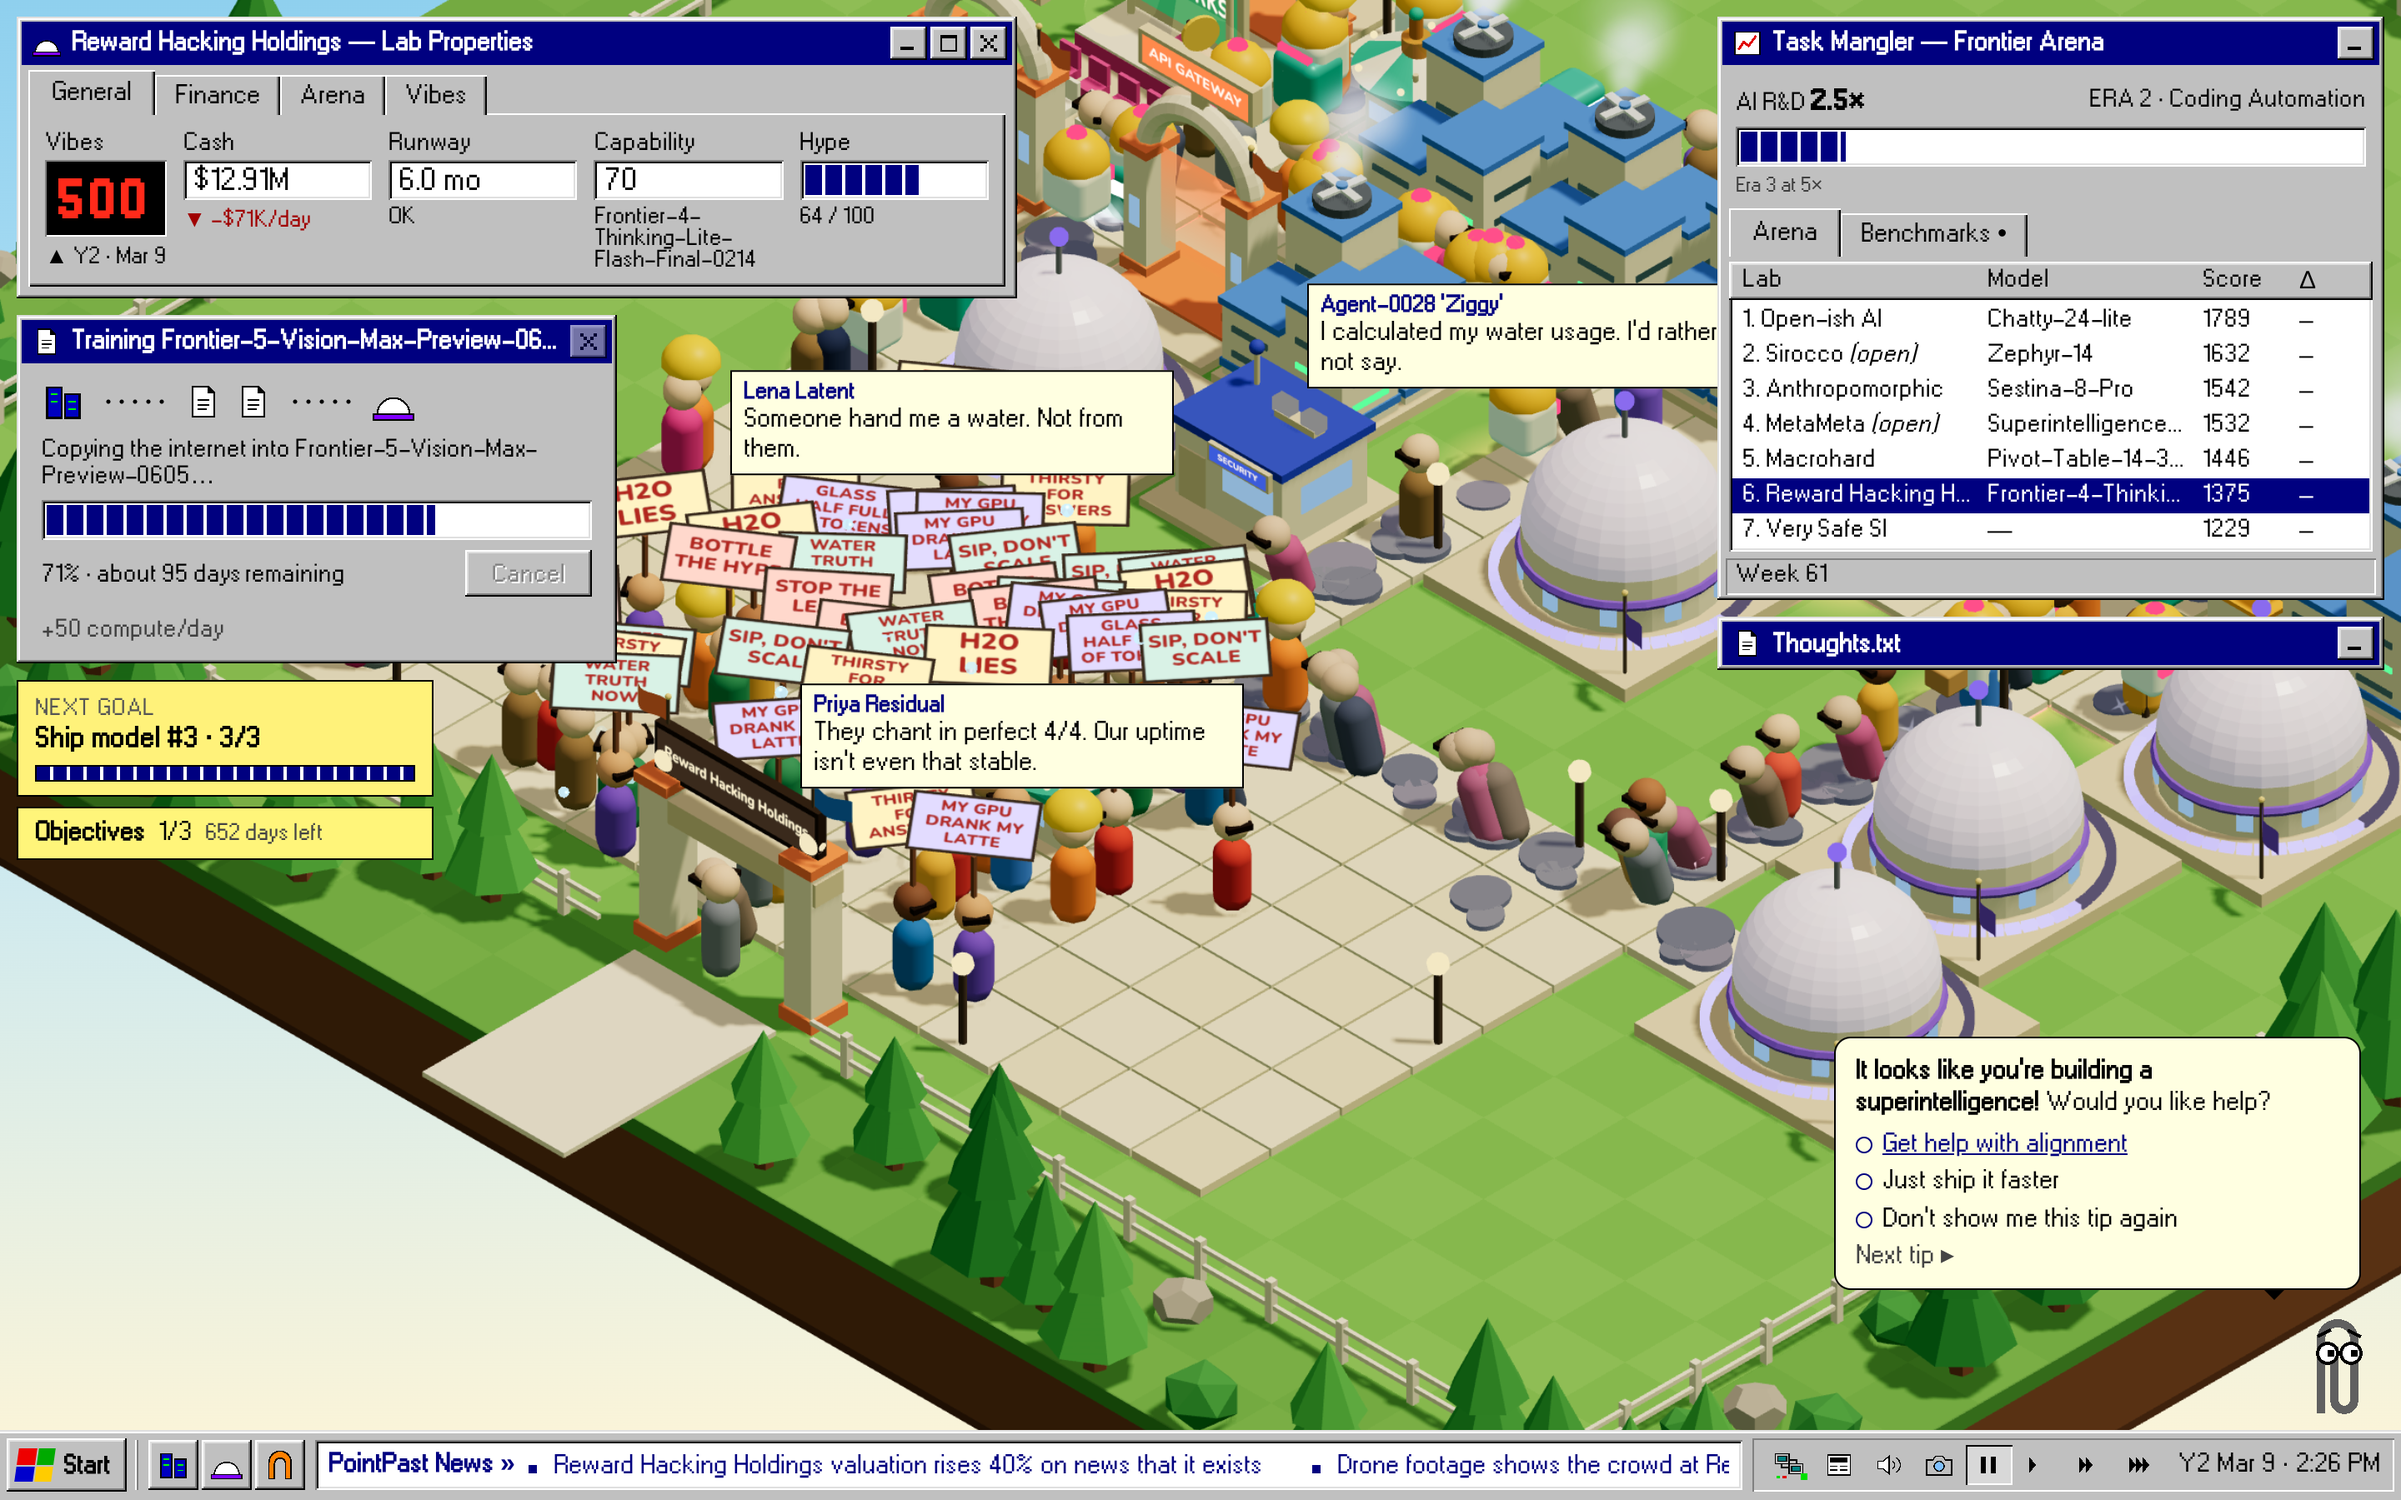
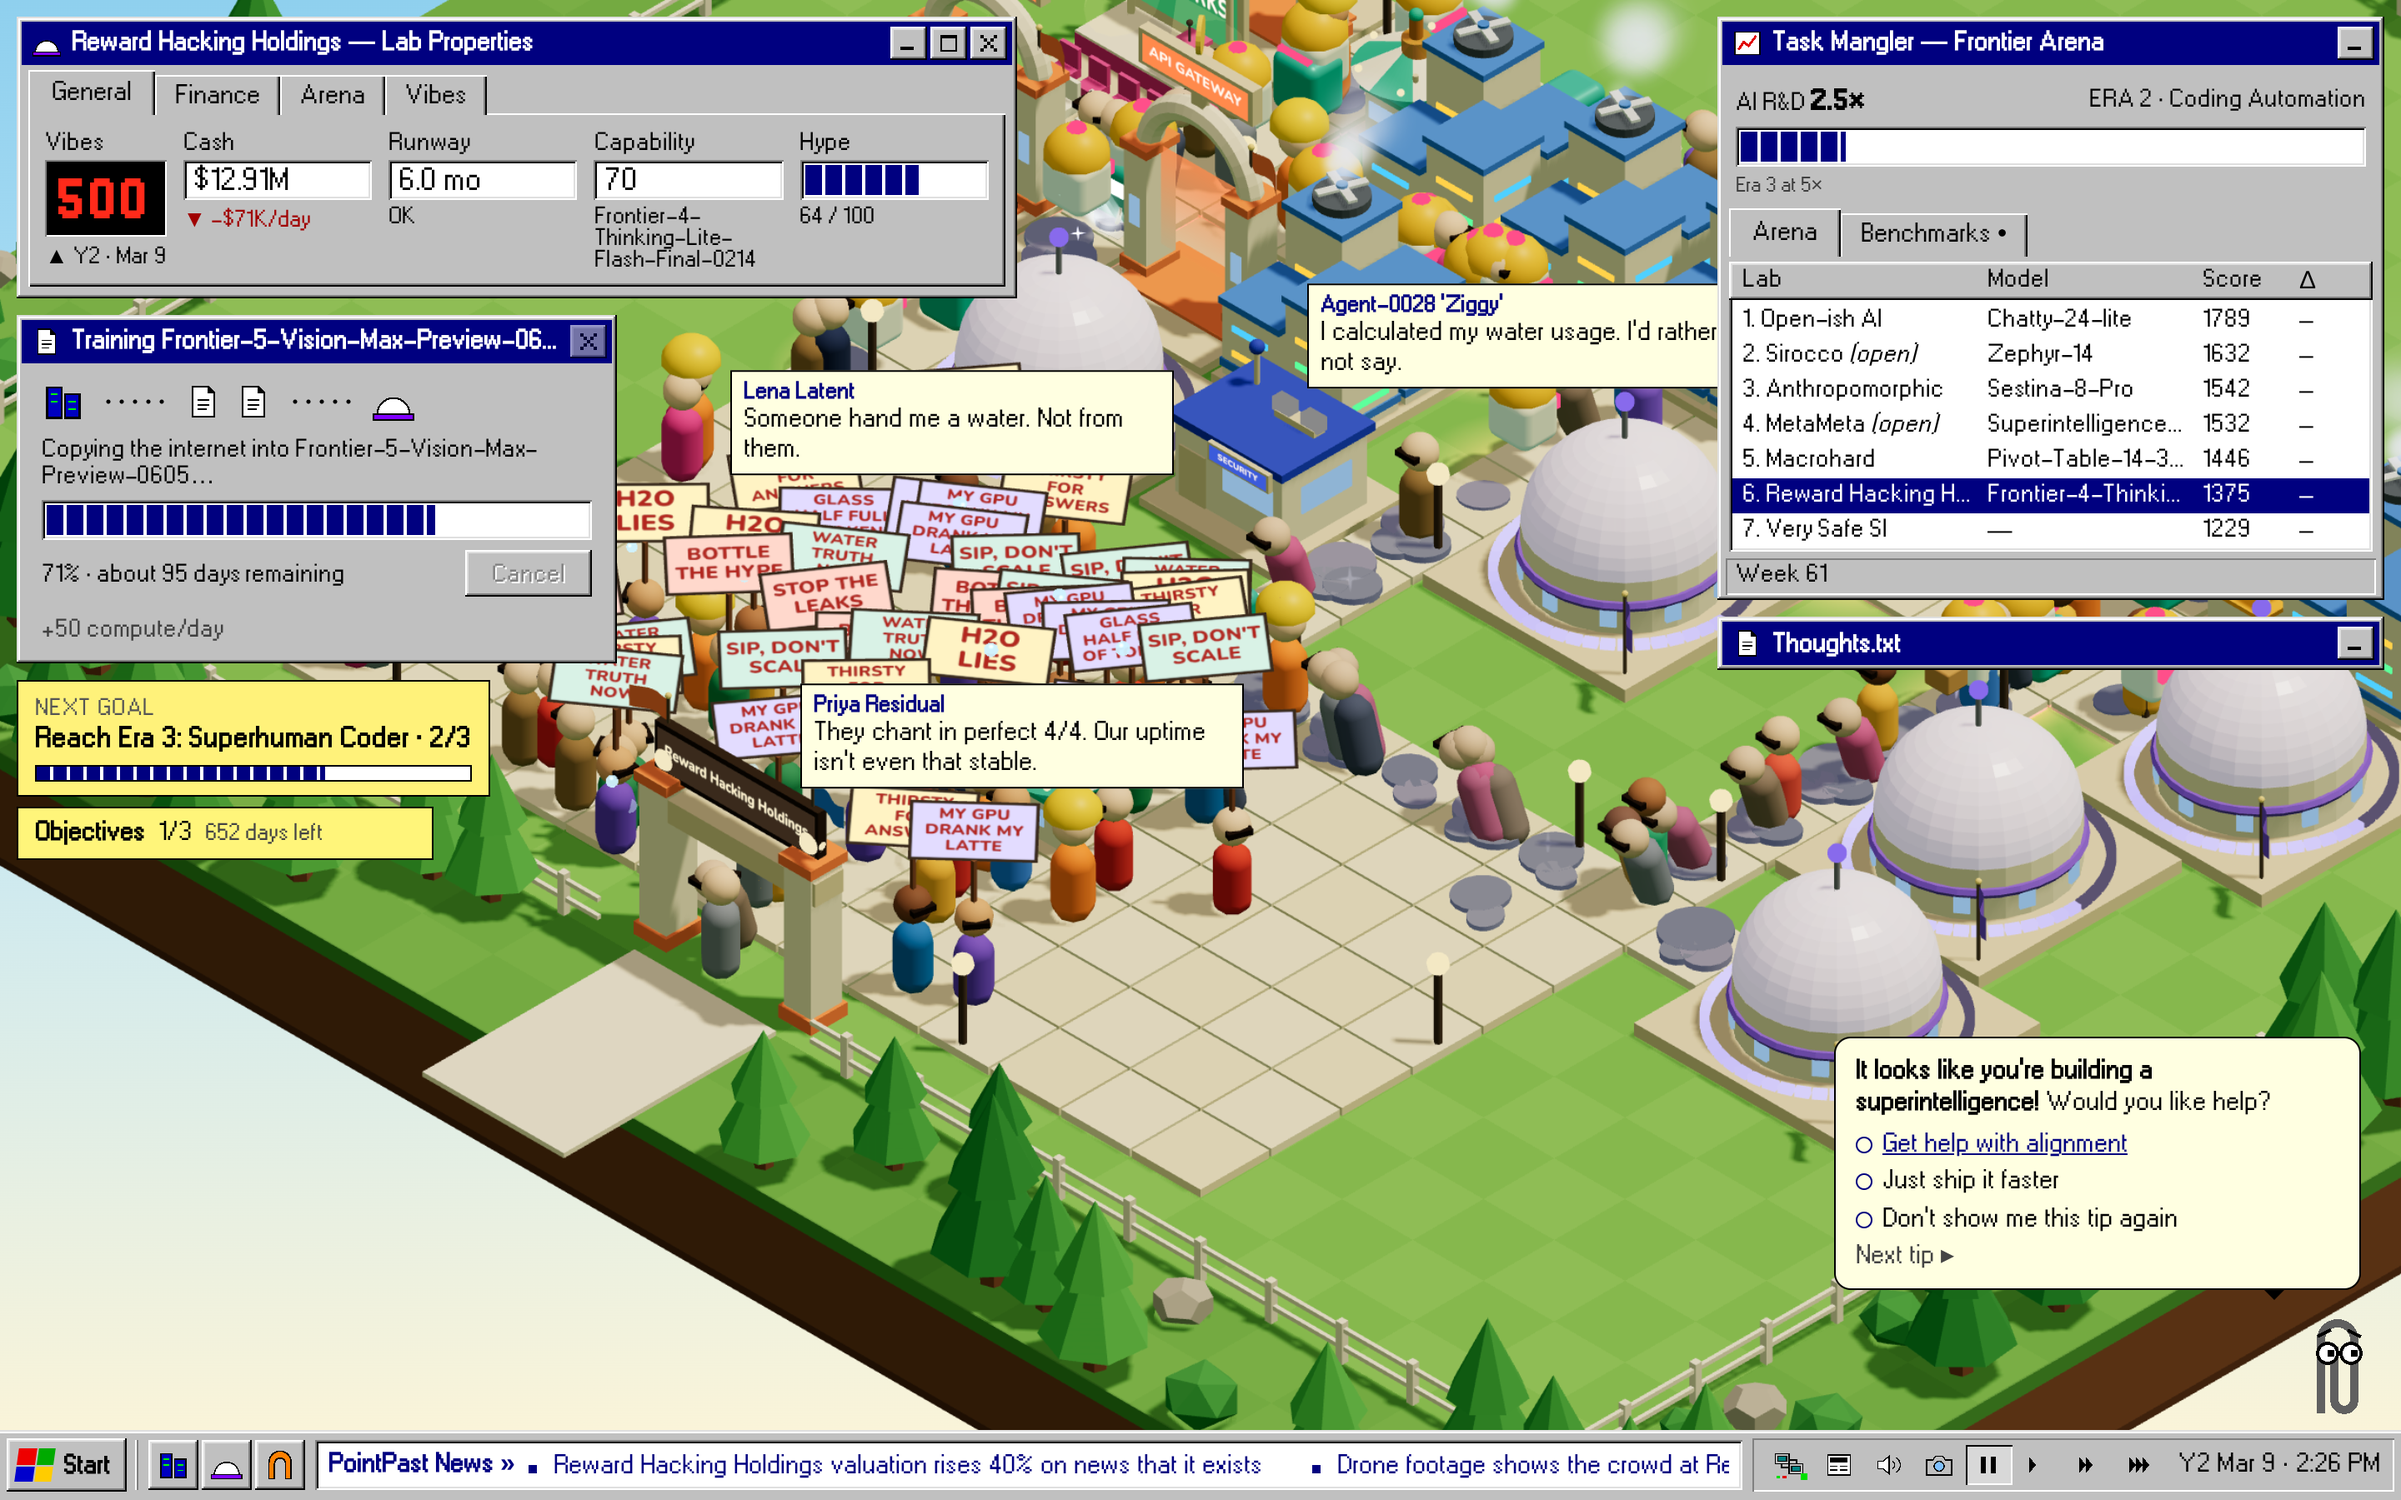
FLT-48: recapture the hero, photo mode, six skins and midgame after the goal-note fix

diff --git a/docs/img/flt-48/hero/midgame/report.md b/docs/img/flt-48/hero/midgame/report.md
@@ -1,6 +1,6 @@
 
-| Scene | Before (`origin/flt-37-mods-live` @ a0d581d) | After (`flt-48-hero-shots` @ 77ad34a+) |
+| Scene | Before (`origin/flt-37-mods-live` @ a0d581d) | After (`flt-48-hero-shots` @ 2baa99e+) |
 |---|---|---|
-| **midgame**<br>4.1% px differ | ![midgame](https://github.com/jem-computer/frontier-lab-tycoon/blob/flt-48-hero-shots/docs/img/flt-48/hero/midgame/before/midgame.png?raw=true) | ![midgame](https://github.com/jem-computer/frontier-lab-tycoon/blob/flt-48-hero-shots/docs/img/flt-48/hero/midgame/after/midgame.png?raw=true) |
+| **midgame**<br>4.4% px differ | ![midgame](https://github.com/jem-computer/frontier-lab-tycoon/blob/flt-48-hero-shots/docs/img/flt-48/hero/midgame/before/midgame.png?raw=true) | ![midgame](https://github.com/jem-computer/frontier-lab-tycoon/blob/flt-48-hero-shots/docs/img/flt-48/hero/midgame/after/midgame.png?raw=true) |
 
-_pnpm shots: 1 scene(s) in 47.8s (2/2 captures ok)._
+_pnpm shots: 1 scene(s) in 38.4s (2/2 captures ok)._
